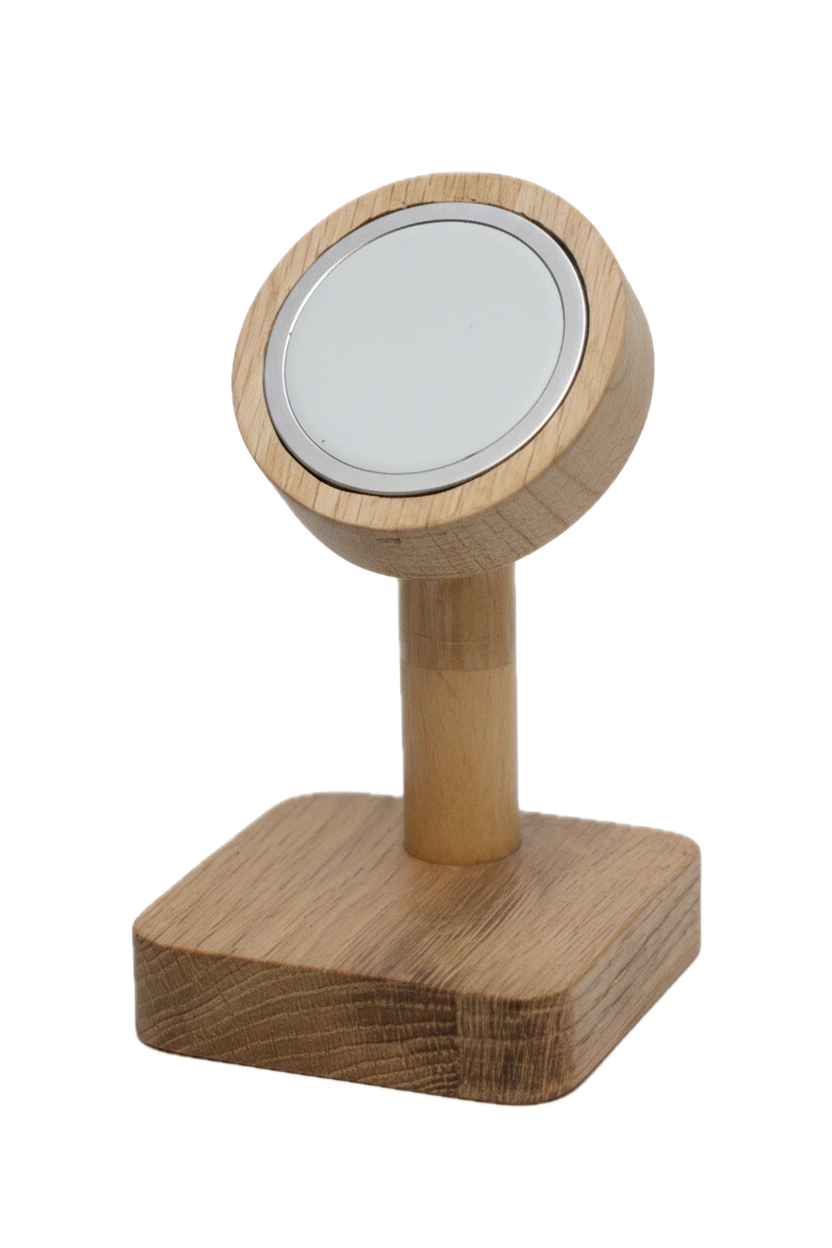
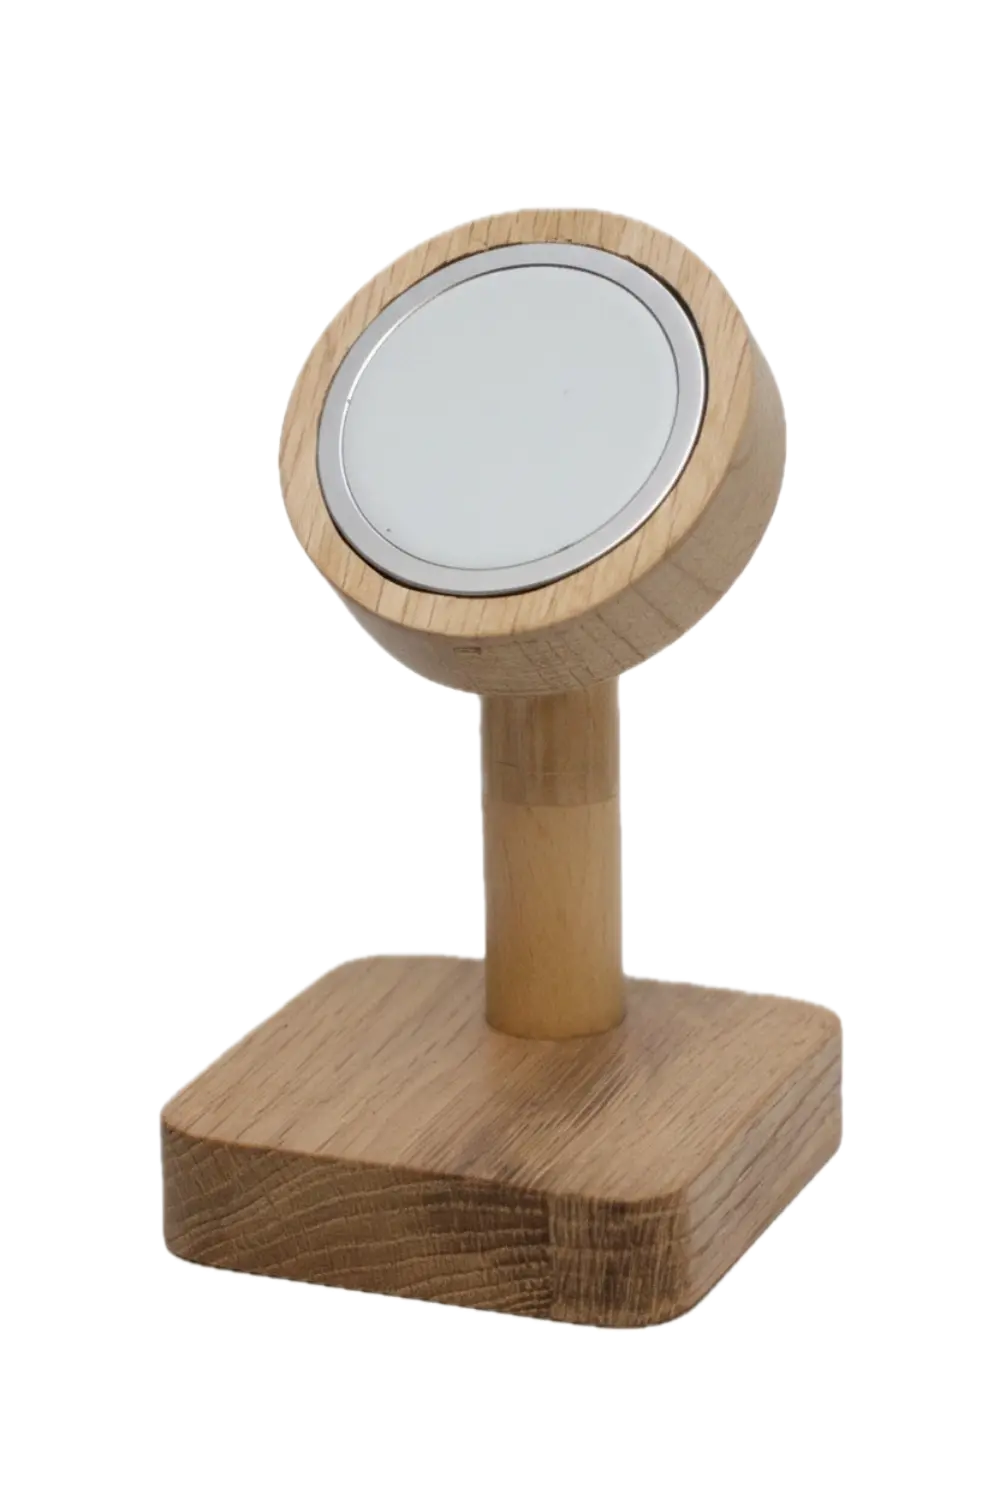
compresssion photos

diff --git a/1-html/projet-stool.html b/1-html/projet-stool.html
@@ -35,26 +35,26 @@
                 <p>Voila certainement la plus belle piece de ma main. Pour ce projet l'inspiration me viens principalement d'un youtubeur du nom de <em><a href="https://www.youtube.com/@MakeWithMiles">MakeWithMiles</a></em>.</p>
                 <p>Je suis d'abord parti de morceaux de bois carré. Je les ai assemblés pour faire la forme globale. Et ensuite je les ai arrondis à l'aide d'une défonseuse d'abord, puis d'une ponceuse principalement.</p>
             </div>
-            <img src="../4-image/photo-tabouret/IMG_6399.JPG" alt="Photo du tabouret" class="main-photo">
+            <img src="../4-image/photo-tabouret/IMG_6399.webp" alt="Photo du tabouret" class="main-photo">
         </div>
         <h1>Plus qu'un tabouret, une nouvelle vision.</h1>
         <p>Voila certainement la plus belle piece de ma main. Pour ce projet l'inspiration me viens principalement d'un youtubeur du nom de <em><a href="https://www.youtube.com/@MakeWithMiles">MakeWithMiles</a></em>.</p>
         <h2>Galerie de photos</h2>
          <div class="gallery">
-          <img src="../4-image/photo-tabouret/IMG_6427.JPG" alt="Image 1" class="photo">
-          <img src="../4-image/photo-tabouret/Gemini_Generated_Image_8adsow8adsow8ads.png" alt="Image 3" class="photo">
-          <img src="../4-image/photo-tabouret/IMG_6397.JPG" alt="Image 3" class="photo">
-          <img src="../4-image/photo-tabouret/IMG_6398.JPG" alt="Image 3" class="photo">
-          <img src="../4-image/photo-tabouret/IMG_6399.JPG" alt="Image 3" class="photo">
-          <img src="../4-image/photo-tabouret/IMG_6400.JPG" alt="Image 3" class="photo">
-          <img src="../4-image/photo-tabouret/IMG_6421.JPG" alt="Image 3" class="photo">
-          <img src="../4-image/photo-tabouret/IMG_6423.JPG" alt="Image 3" class="photo">
-          <img src="../4-image/photo-tabouret/IMG_6433.JPG" alt="Image 3" class="photo">
-          <img src="../4-image/photo-tabouret/IMG_6435 2.JPG" alt="Image 3" class="photo">
-          <img src="../4-image/photo-tabouret/IMG_8003.JPEG" alt="Image 3" class="photo">
-          <img src="../4-image/photo-tabouret/IMG_8004.JPEG" alt="Image 3" class="photo">
-          <img src="../4-image/photo-tabouret/IMG_8005.JPEG" alt="Image 3" class="photo">
-          <img src="../4-image/photo-tabouret/IMG_8009.JPEG" alt="Image 3" class="photo">
+          <img src="../4-image/photo-tabouret/IMG_6427.webp" alt="Image 1" class="photo">
+          <img src="../4-image/photo-tabouret/IMG_6397.webp" alt="Image 3" class="photo">
+          <img src="../4-image/photo-tabouret/IMG_6398.webp" alt="Image 4" class="photo">
+          <img src="../4-image/photo-tabouret/IMG_6399.webp" alt="Image 5" class="photo">
+          <img src="../4-image/photo-tabouret/IMG_6400.webp" alt="Image 6" class="photo">
+          <img src="../4-image/photo-tabouret/IMG_6421.webp" alt="Image 7" class="photo">
+          <img src="../4-image/photo-tabouret/IMG_6423.webp" alt="Image 8" class="photo">
+          <img src="../4-image/photo-tabouret/IMG_6433.webp" alt="Image 9" class="photo">
+          <img src="../4-image/photo-tabouret/IMG_6435 2.webp" alt="Image 10" class="photo">
+          <img src="../4-image/photo-tabouret/IMG_8003.webp" alt="Image 11" class="photo">
+          <img src="../4-image/photo-tabouret/IMG_8004.webp" alt="Image 12" class="photo">
+          <img src="../4-image/photo-tabouret/IMG_8005.webp" alt="Image 13" class="photo">
+          <img src="../4-image/photo-tabouret/IMG_8009.webp" alt="Image 14" class="photo">
+          <img src="../4-image/photo-tabouret/stool-white-bg.webp" alt="tabouret sur fond blanc" class="photo">
         </div>
 
         <a href="../index.html">Retour au portfolio</a>

diff --git a/1-html/projet-sac-dos.html b/1-html/projet-sac-dos.html
@@ -67,24 +67,24 @@ Bref, il y a encore tellement de détails barbants à expliquer,
 mais pour des raisons évidentes, je ne le ferai pas ici.</p>
         <h2>Galerie de photos</h2>
          <div class="gallery">
-            <img src="../4-image/photos-sac-dos/IMG_6467.JPG" alt="Image 1" class="photo">
-            <img src="../4-image/photos-sac-dos/IMG_6468.JPG" alt="Image 2" class="photo">
-            <img src="../4-image/photos-sac-dos/IMG_6469.JPG" alt="Image 3" class="photo">
-            <img src="../4-image/photos-sac-dos/IMG_6470.JPG" alt="Image 4" class="photo">
-            <img src="../4-image/photos-sac-dos/IMG_6471.JPG" alt="Image 5" class="photo">
-            <img src="../4-image/photos-sac-dos/IMG_6472.JPG" alt="Image 6" class="photo">
-            <img src="../4-image/photos-sac-dos/IMG_6473.JPG" alt="Image 7" class="photo">
-            <img src="../4-image/photos-sac-dos/IMG_6474.JPG" alt="Image 8" class="photo">
-            <img src="../4-image/photos-sac-dos/IMG_6475.JPG" alt="Image 9" class="photo">
-            <img src="../4-image/photos-sac-dos/IMG_6476.JPG" alt="Image 10" class="photo">
-            <img src="../4-image/photos-sac-dos/IMG_6477.JPG" alt="Image 11" class="photo">
-            <img src="../4-image/photos-sac-dos/IMG_6478.JPG" alt="Image 12" class="photo">
-            <img src="../4-image/photos-sac-dos/IMG_6479.JPG" alt="Image 13" class="photo">
-            <img src="../4-image/photos-sac-dos/IMG_6480.JPG" alt="Image 14" class="photo">
-            <img src="../4-image/photos-sac-dos/IMG_6481.JPG" alt="Image 15" class="photo">
-            <img src="../4-image/photos-sac-dos/IMG_6482.JPG" alt="Image 16" class="photo">
-            <img src="../4-image/photos-sac-dos/IMG_6483.JPG" alt="Image 17" class="photo">
-            <img src="../4-image/photos-sac-dos/IMG_6484.JPG" alt="Image 18" class="photo">
+            <img src="../4-image/photos-sac-dos/IMG_6467.webp" alt="Image 1" class="photo">
+            <img src="../4-image/photos-sac-dos/IMG_6468.webp" alt="Image 2" class="photo">
+            <img src="../4-image/photos-sac-dos/IMG_6469.webp" alt="Image 3" class="photo">
+            <img src="../4-image/photos-sac-dos/IMG_6470.webp" alt="Image 4" class="photo">
+            <img src="../4-image/photos-sac-dos/IMG_6471.webp" alt="Image 5" class="photo">
+            <img src="../4-image/photos-sac-dos/IMG_6472.webp" alt="Image 6" class="photo">
+            <img src="../4-image/photos-sac-dos/IMG_6473.webp" alt="Image 7" class="photo">
+            <img src="../4-image/photos-sac-dos/IMG_6474.webp" alt="Image 8" class="photo">
+            <img src="../4-image/photos-sac-dos/IMG_6475.webp" alt="Image 9" class="photo">
+            <img src="../4-image/photos-sac-dos/IMG_6476.webp" alt="Image 10" class="photo">
+            <img src="../4-image/photos-sac-dos/IMG_6477.webp" alt="Image 11" class="photo">
+            <img src="../4-image/photos-sac-dos/IMG_6478.webp" alt="Image 12" class="photo">
+            <img src="../4-image/photos-sac-dos/IMG_6479.webp" alt="Image 13" class="photo">
+            <img src="../4-image/photos-sac-dos/IMG_6480.webp" alt="Image 14" class="photo">
+            <img src="../4-image/photos-sac-dos/IMG_6481.webp" alt="Image 15" class="photo">
+            <img src="../4-image/photos-sac-dos/IMG_6482.webp" alt="Image 16" class="photo">
+            <img src="../4-image/photos-sac-dos/IMG_6483.webp" alt="Image 17" class="photo">
+            <img src="../4-image/photos-sac-dos/IMG_6484.webp" alt="Image 18" class="photo">
         </div>
 
         <a href="../index.html">Retour au portfolio</a>

diff --git a/index.html b/index.html
@@ -31,12 +31,12 @@
             <button class="carousel-btn prev" aria-label="Précédent">&#10094;</button>
             <div class="carousel-viewport">
                 <div class="carousel-track">
-                    <div class="carousel-slide"><img src="4-image/photos-caroussel/sac-dos.png" alt="photo 1"></div>
-                    <div class="carousel-slide"><img src="4-image/photos-caroussel/sbg_socle-magsafe.png" alt="photo 2"></div>
-                    <div class="carousel-slide"><img src="4-image/photos-caroussel/sbg_table-basse.png" alt="photo 3"></div>
-                    <div class="carousel-slide"><img src="4-image/photos-caroussel/sbg_tabouret-faux.png" alt="photo 4"></div>
-                    <div class="carousel-slide"><img src="4-image/photos-caroussel/sbg_tabouret-vrai.png" alt="photo 5"></div>
-                    <div class="carousel-slide"><img src="4-image/photos-caroussel/ascii-art.png" alt="photo 6"></div>
+                    <div class="carousel-slide"><img src="4-image/photos-caroussel/sbg_sac-dos.webp" alt="photo 1"></div>
+                    <div class="carousel-slide"><img src="4-image/photos-caroussel/sbg_tabouret-vrai.webp" alt="photo 2"></div>
+                    <div class="carousel-slide"><img src="4-image/photos-caroussel/sbg_socle-magsafe.webp" alt="photo 3"></div>
+                    <div class="carousel-slide"><img src="4-image/photos-caroussel/sbg_tabouret-faux.webp" alt="photo 4"></div>
+                    <div class="carousel-slide"><img src="4-image/photos-caroussel/sbg_table-basse.png" alt="photo 5"></div>
+                    <div class="carousel-slide"><img src="4-image/photos-caroussel/ascii-art.webp" alt="photo 6"></div>
                 </div>
             </div>
             <button class="carousel-btn next" aria-label="Suivant">&#10095;</button>
